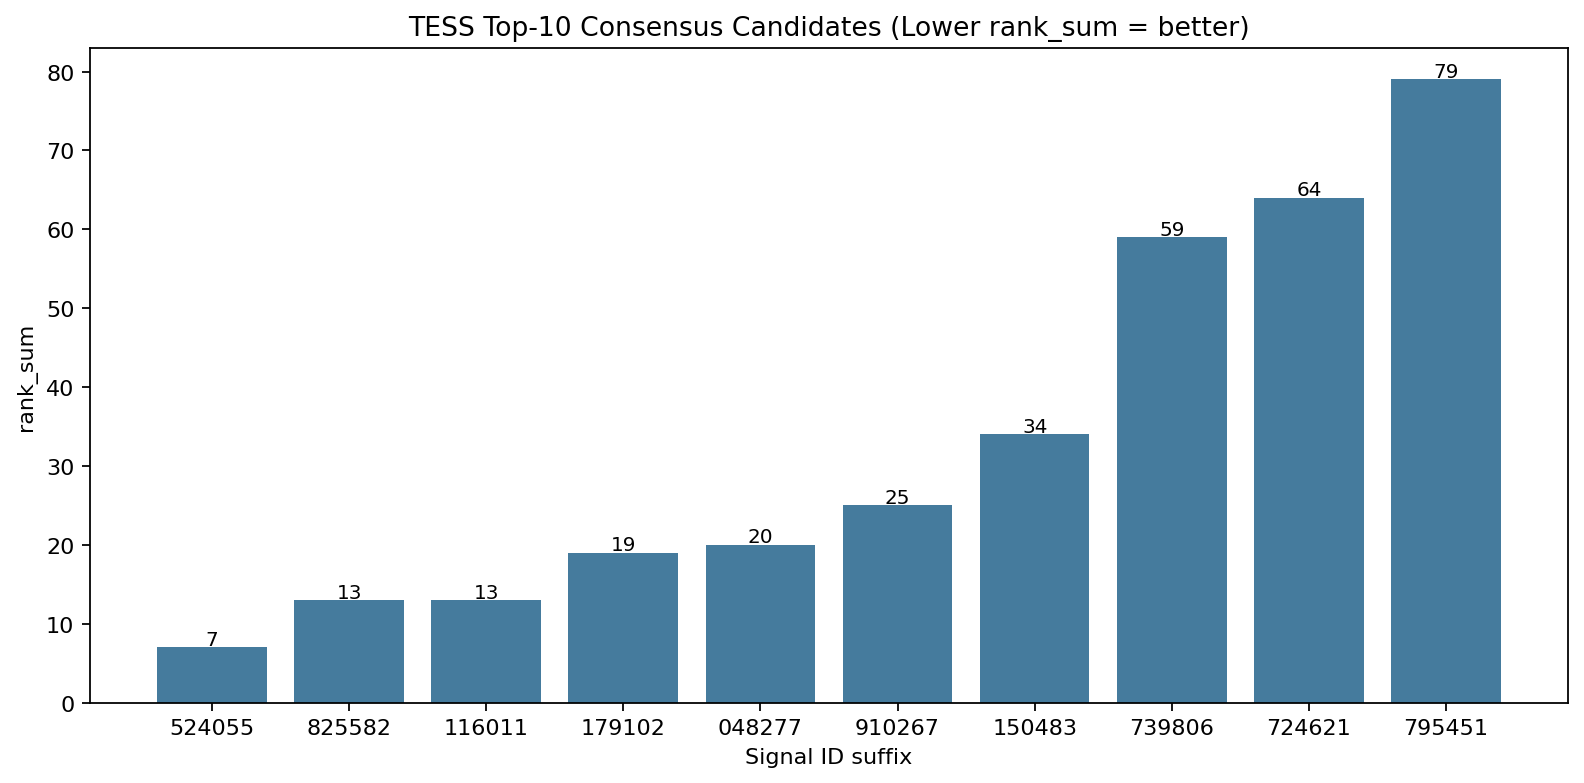
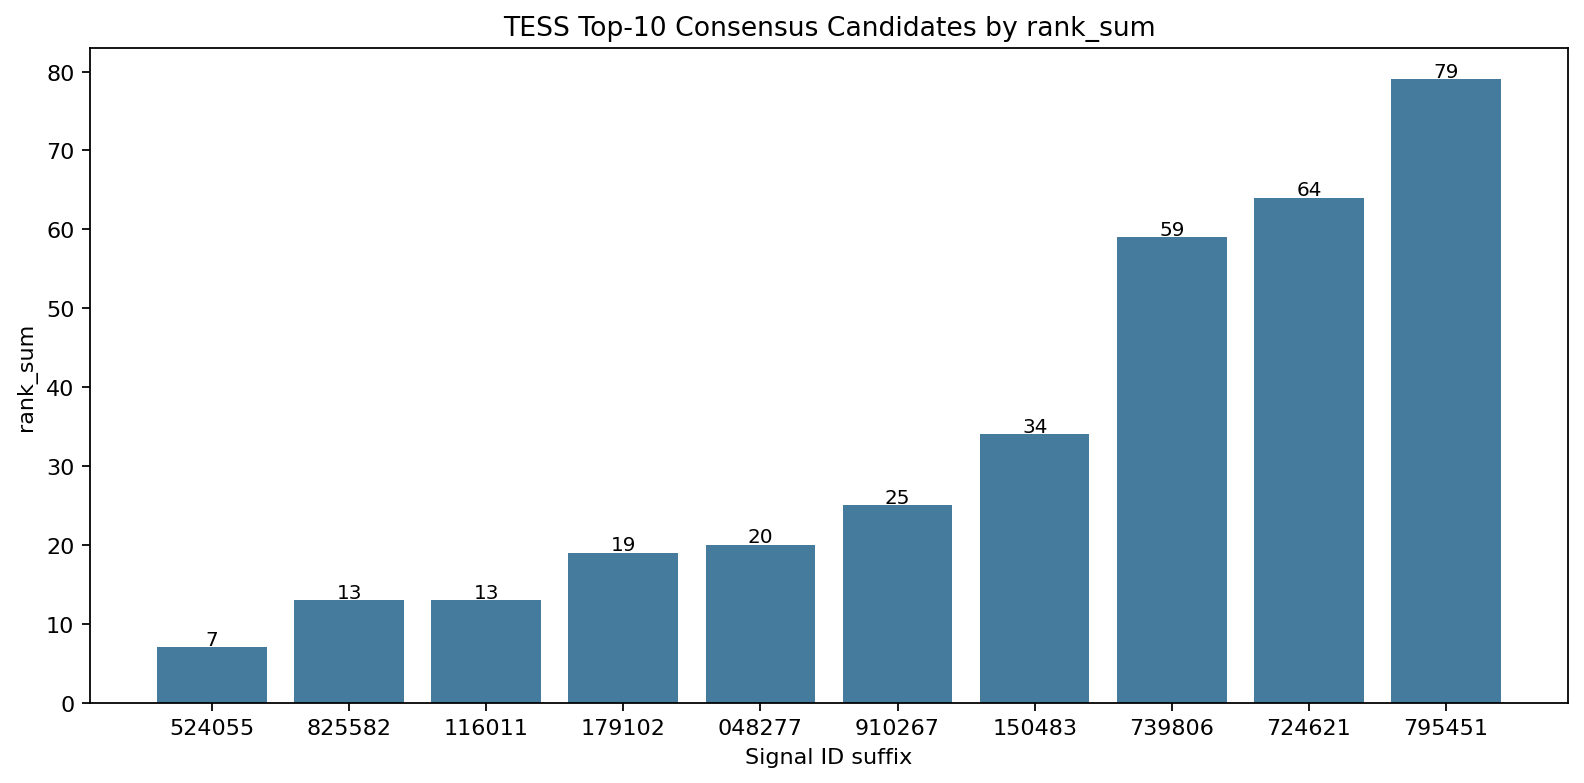
Fix Scenario 4: clean chart text and publish working candidates report links

Changed region(s): [[0.2475, 0.0, 0.7734, 0.0613]]

diff --git a/tests/tess/candidates_report.md b/tests/tess/candidates_report.md
@@ -1,0 +1,124 @@
+# ZOR ASTR-1 TESS — Candidate Report
+
+Filter: scatter_norm <= 0.7
+Candidates: top 10 by consensus rank
+
+## tess2018206045859-s0001-0000000055524055-0120-s_lc
+- rank_sum: 7, rank_max: 3
+- regularity: 0.456
+- stability: 0.979
+- snr_norm: 0.768
+- quality_frac: 0.763
+- scatter_norm: 0.599
+- transit_count_norm: 0.000
+- duration_norm: 0.091
+- depth_norm: 0.910
+- plot: missing (FITS not found or plotting unavailable)
+
+## tess2018206045859-s0001-0000000139825582-0120-s_lc
+- rank_sum: 13, rank_max: 5
+- regularity: 0.202
+- stability: 0.822
+- snr_norm: 0.936
+- quality_frac: 0.910
+- scatter_norm: 0.148
+- transit_count_norm: 0.161
+- duration_norm: 0.597
+- depth_norm: 0.101
+- plot: missing (FITS not found or plotting unavailable)
+
+## tess2018206045859-s0001-0000000267116011-0120-s_lc
+- rank_sum: 13, rank_max: 5
+- regularity: 0.000
+- stability: 0.924
+- snr_norm: 1.000
+- quality_frac: 0.909
+- scatter_norm: 0.064
+- transit_count_norm: 0.262
+- duration_norm: 0.694
+- depth_norm: 0.037
+- plot: missing (FITS not found or plotting unavailable)
+
+## tess2018206045859-s0001-0000000177179102-0120-s_lc
+- rank_sum: 19, rank_max: 6
+- regularity: 0.000
+- stability: 0.885
+- snr_norm: 1.000
+- quality_frac: 0.910
+- scatter_norm: 0.034
+- transit_count_norm: 0.192
+- duration_norm: 0.230
+- depth_norm: 0.017
+- plot: missing (FITS not found or plotting unavailable)
+
+## tess2018206045859-s0001-0000000144048277-0120-s_lc
+- rank_sum: 20, rank_max: 8
+- regularity: 0.000
+- stability: 0.901
+- snr_norm: 0.929
+- quality_frac: 0.907
+- scatter_norm: 0.075
+- transit_count_norm: 0.376
+- duration_norm: 0.929
+- depth_norm: 0.038
+- plot: missing (FITS not found or plotting unavailable)
+
+## tess2018206045859-s0001-0000000033910267-0120-s_lc
+- rank_sum: 25, rank_max: 11
+- regularity: 0.000
+- stability: 0.866
+- snr_norm: 0.819
+- quality_frac: 0.910
+- scatter_norm: 0.166
+- transit_count_norm: 0.601
+- duration_norm: 0.467
+- depth_norm: 0.128
+- plot: missing (FITS not found or plotting unavailable)
+
+## tess2018206045859-s0001-0000000403150483-0120-s_lc
+- rank_sum: 34, rank_max: 12
+- regularity: 0.000
+- stability: 0.873
+- snr_norm: 1.000
+- quality_frac: 0.908
+- scatter_norm: 0.021
+- transit_count_norm: 0.061
+- duration_norm: 0.289
+- depth_norm: 0.031
+- plot: missing (FITS not found or plotting unavailable)
+
+## tess2018206045859-s0001-0000000099739806-0120-s_lc
+- rank_sum: 59, rank_max: 34
+- regularity: 0.240
+- stability: 0.704
+- snr_norm: 0.877
+- quality_frac: 0.906
+- scatter_norm: 0.000
+- transit_count_norm: 0.000
+- duration_norm: 0.000
+- depth_norm: 0.011
+- plot: missing (FITS not found or plotting unavailable)
+
+## tess2018206045859-s0001-0000000327724621-0120-s_lc
+- rank_sum: 64, rank_max: 35
+- regularity: 0.000
+- stability: 0.830
+- snr_norm: 1.000
+- quality_frac: 0.908
+- scatter_norm: 0.398
+- transit_count_norm: 0.018
+- duration_norm: 0.059
+- depth_norm: 0.867
+- plot: missing (FITS not found or plotting unavailable)
+
+## tess2018206045859-s0001-0000000260795451-0120-s_lc
+- rank_sum: 79, rank_max: 28
+- regularity: 0.000
+- stability: 0.876
+- snr_norm: 0.351
+- quality_frac: 0.910
+- scatter_norm: 0.028
+- transit_count_norm: 0.788
+- duration_norm: 0.250
+- depth_norm: 0.031
+- plot: missing (FITS not found or plotting unavailable)
